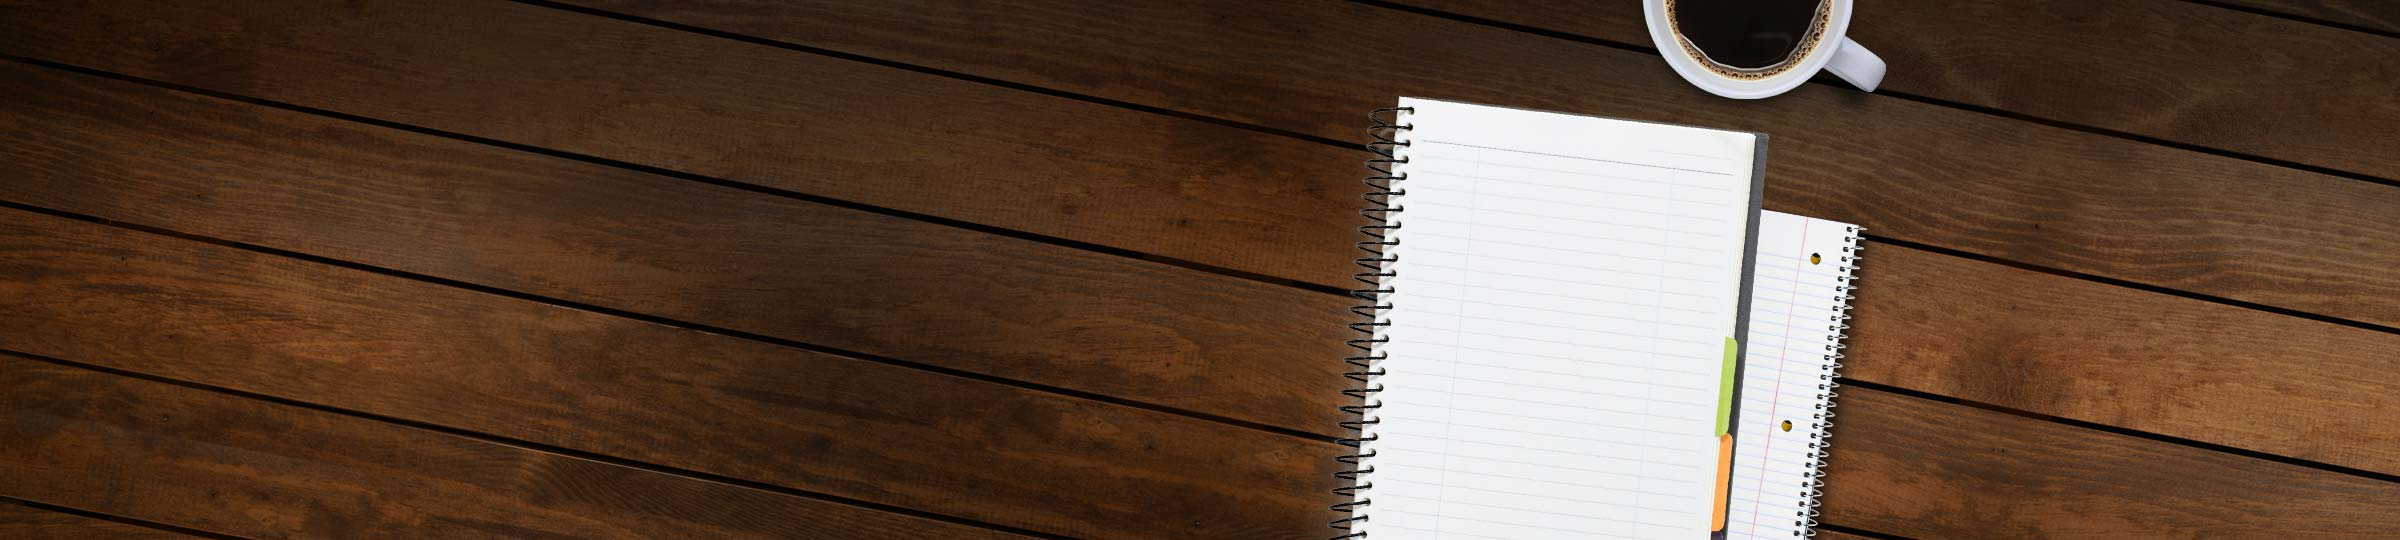
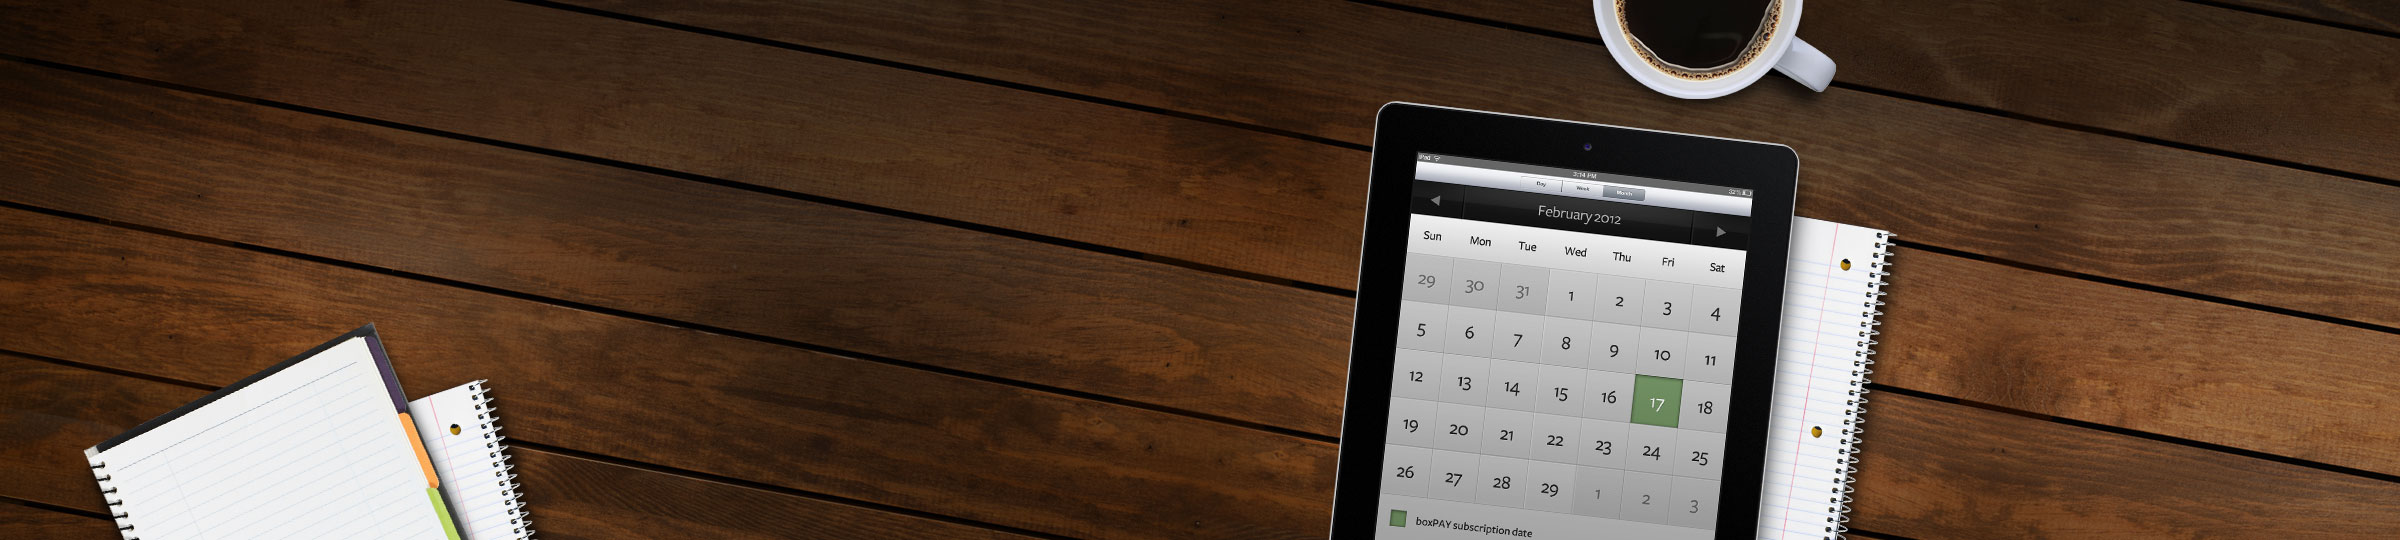
Events page and homepage graphic

Changed region(s): [[0.5312, 0.0, 0.8125, 1.0], [0.0312, 0.5926, 0.25, 1.0]]

diff --git a/static/stylesheets/app.css b/static/stylesheets/app.css
@@ -598,6 +598,11 @@
 			.homeslide3 br { display: none; }
 			
 			}
+			
+			
+		@media only screen and (min-width: 768px) { 	
+			.subtitle-login { width: 260px; }
+			.subtitle-pricepoints { width: 260px; } }
 		
 		
 
@@ -1025,7 +1030,7 @@
 	----------------------------------------- */		
 		
 		
-		.features { padding-left: 115px; }
+		div.features { padding-left: 115px; }
 		
 		.feature1 { background: url(../images/features/market.jpg) no-repeat top left; }
 		.feature2 { background: url(../images/features/integration.jpg) no-repeat top left; }
@@ -1037,7 +1042,7 @@
 		
 		@media only screen and (max-width: 480px) { 
 			
-			.features { background-size: 45px; padding-left: 60px; } }
+			div.features { background-size: 45px; padding-left: 60px; } }
 			
 			
 		@media only screen and (min-width: 480px) { 
@@ -1047,7 +1052,7 @@
 			
 		@media only screen and (min-width: 768px) { 	
 			 
-			 .features { margin-left: -10px; } }
+			 div.features { margin-left: -10px; } }
 			
 			
 		@media only screen and (-Webkit-min-device-pixel-ratio: 1.5),
@@ -1059,10 +1064,61 @@
 			.feature2 { background: url(../images/features/integration@2x.jpg) no-repeat top left; }
 			.feature3 { background: url(../images/features/payouts@2x.jpg) no-repeat top left; }
 			.feature4 { background: url(../images/features/secure@2x.jpg) no-repeat top left; }
-			.feature5 { background: url(../images/features/reporting@2x.jpg) no-repeat top left; }
-			 }	
+			.feature5 { background: url(../images/features/reporting@2x.jpg) no-repeat top left; } }	
 		
 		
+	
+	
+	/* -----------------------------------------
+		Events
+	----------------------------------------- */
+	
+		.events h4 { 
+			margin-bottom: 0.25em; color: #222; display: inline-block; 
+			font-size: 1.14285714em; font-weight: 500; }	
+		.events h2 {  color: #828282; }
+		.events span { color: #828282;  font-style: italic; line-height: 1.5; display: inline-block;
+		}
+		
+		.event-location { background: url('../images/events/event-location.jpg') no-repeat left ; padding-left: 20px;   }
+		
+		.event-date { background: url('../images/events/event-date.jpg') no-repeat left ; padding-left: 20px; margin-right: 16px;  }
+	
+		.events .large li { padding-bottom: 0.5em; }
+		.events .large li div { display: inline-block; width: 49%; }
+		
+		
+		@media only screen and (-Webkit-min-device-pixel-ratio: 1.5),
+		only screen and (-moz-min-device-pixel-ratio: 1.5),
+		only screen and (-o-min-device-pixel-ratio: 3/2),
+		only screen and (min-device-pixel-ratio: 1.5) {
+		
+			.event-date { background: url(../images/events/event-date@2x.jpg) no-repeat left ; background-size:16px;  }
+			.event-location { background: url(../images/events/event-location@2x.jpg) no-repeat left ;  background-size:16px;  }	 }
+	
+	
+		
+	
+	
+		@media only screen and (max-width: 600px) { 
+			
+			.events .large li .six { width: 100%; }
+			.events .large li div { display: block; width: 100%; margin-bottom: 1em; }
+			.events .large li div span { display: block; } 
+			 }
+			 
+		@media only screen and (min-width: 767px) {
+			.button.meeting { padding-left: 45px; padding-right: 45px; }
+			.event-date { background-position: -2px center; }	 }
+			 
+			 
+		@media only screen and (max-width: 767px) {
+			
+			.button.meeting.right { float: left; margin-bottom: 2em; }
+			
+			.event-date, .event-location { background-size:15px;  } }	 
+	
+	
 	
 	
 	/* -----------------------------------------

diff --git a/events.php b/events.php
@@ -1,0 +1,231 @@
+<?php $subtitle = "Events";
+include($_SERVER['DOCUMENT_ROOT'].'/includes/head.php');		
+include($_SERVER['DOCUMENT_ROOT'].'/includes/header.php')?>	
+	
+		
+	<div class="row primary-row">	
+  		
+  		
+  		
+  		<section role="main">
+  			
+  			
+  			<div class="row primary-container">
+  				<div class="ten columns centered">
+  					<div class="row">
+  					
+  						<div class="twelve columns">
+  						
+  							
+  							<h1>Tradeshows &amp; Events</h1>
+  							<div class="row">
+  							
+  							<p class="seven columns">Praesent eget neque eu eros interdum malesuada non vel leo. Sed fringilla porta ligula egestas tincidunt. Maecenas quis tortor arcu. Vivamus rutrum nunc non neque consectetur.</p>
+  							
+  							<div class="five columns">
+  								<a href="mailto:sales@boxpay.com" class="button right meeting">Schedule a Meeting</a>
+  							</div>
+  							
+  							</div>
+  								
+  						</div>
+  						
+  			<!--			
+  		  				<div class="five columns">
+  		  				
+  		  				
+  		  				
+  		  				</div>	-->	
+  						
+  			
+
+  					
+  					</div>
+  				</div>
+  				
+  				
+  				<div class="twelve columns divider"></div>
+  				
+  				
+  				<div class="ten columns offset-by-one end events ">
+  					<div class="row">
+  					
+  						<div class="twelve columns">
+  					
+  					<h2>Upcoming Events</h2>
+  				
+  					<ul class="no-bullet large">
+  					
+  					  						
+  						<li>
+  							
+  							<h4 class="six">Tokyo Game Show 2012</h4>
+  							<div>
+  							<span class="event-date">September 20 - 21, 2012</span>
+  							<span class="event-location">Tokyo, Japan</span>
+  							</div>
+  						</li>
+  						
+  						
+  						<li>
+  							
+  							<h4 class="six">AppsWorld 2012</h4>
+  							<div>
+  							<span class="event-date">October 2 - 3, 2012</span>
+  							<span class="event-location">London, England</span>
+  							</div>
+  						</li>
+  						
+  						
+  						<li>
+  							
+  							<h4 class="six">WAN-IFRA 2012</h4>
+  							<div>
+  							<span class="event-date">October 29 - 31, 2012</span>
+  							<span class="event-location">Frankfurt, Germany</span>
+  							</div>
+  						</li>
+  						
+  						
+  						<li>
+  							
+  							<h4 class="six">G-Star 2012</h4>
+  							<div>
+  							<span class="event-date">November 8 - 10, 2012</span>
+  							<span class="event-location">Busan, South Korea</span>
+  							</div>
+  						</li>
+
+  					</ul>
+  					
+  				
+  				
+  				
+  				
+  					<h2>Past Events</h2>
+  						  				
+  					<ul class="no-bullet large">
+  							
+  							
+  							
+  								<li>
+  									<h4 class="six">Casual Connect 2012</h4>
+  									<div>
+  									<span class="event-date">July 24 - 26, 2012</span>
+  									<span class="event-location">Seattle, USA</span>
+  									</div>
+  								</li>
+  								
+  								<li>
+  									<h4 class="six">Gamescom 2012</h4>
+  									<div>
+  									<span class="event-date">August 15 - 18, 2012</span>
+  									<span class="event-location">Cologne, Germany</span>
+  									</div>
+  								</li>
+  								
+  								
+  							
+  							
+  								<li>
+  									<h4 class="six">E3 2012</h4>
+  									<div>
+  									<span class="event-date">June 5 - 7, 2012</span>
+  									<span class="event-location">Los Angeles, USA</span>
+  									</div>
+  								</li>
+  								
+  								<li>
+  									<h4 class="six">LA Games Conference 2012</h4>
+  									<div>
+  									<span class="event-date">April 25 - 26, 2012</span>
+  									<span class="event-location">Los Angeles, USA</span>
+  									</div>
+  								</li>
+  								
+  								
+  								<li>
+  									<h4 class="six">GDC 2012</h4>
+  									<div>
+  									<span class="event-date">March 5 - 9, 2012</span>
+  									<span class="event-location">San Francisco, USA</span>
+  									</div>
+  								</li>
+  								
+  								
+  								<li>
+  									<h4 class="six">Mobile World Congress 2012</h4>
+  									<div>
+  									<span class="event-date">February 27 - March 1, 2012</span>
+  									<span class="event-location">Barcelona, Spain</span>
+  									</div>
+  								</li>
+  								
+  								
+  								<li>
+  									<h4 class="six">G-Star 2011</h4>
+  									<div>
+  									<span class="event-date">November 14 - 15, 2011</span>
+  									<span class="event-location">Busan, South Korea</span>
+  									</div>
+  								</li>
+  								
+  								
+  								<li>
+  									<h4 class="six">Social Gaming Summit 2011</h4>
+  									<div>
+  									<span class="event-date">November 14 - 15, 2011</span>
+  									<span class="event-location">London, England</span>
+  									</div>
+  								</li>
+  								
+  								
+  								<li>
+  									<h4 class="six">SocialWest: Monetizing Social Media 2011</h4>
+  									<div>
+  									<span class="event-date">October 20 - 21, 2011</span>
+  									<span class="event-location">San Francisco, USA</span>
+  									</div>
+  								</li>
+  								
+  								
+  								<li>
+  									<h4 class="six">World Telemedia Conference 2011</h4>
+  									<div>
+  									<span class="event-date">October 12 - 14, 2011</span>
+  									<span class="event-location">Amsterdam, Netherlands</span>
+  									</div>
+  								</li>
+  								
+  								<li>
+  									<h4 class="six">NY Games Conference 2011</h4>
+  									<div>
+  									<span class="event-date">September 21 - 22, 2011</span>
+  									<span class="event-location">New York, USA</span>
+  									</div>
+  								</li>
+  				
+  							</ul>
+  						
+  						</div>
+  					</div>
+  				</div>
+  				
+
+  				
+  				
+  				
+  		
+  			
+  		
+  		</section>
+  		
+  		
+  		
+  		
+  		<?php include($_SERVER['DOCUMENT_ROOT'].'/includes/sidebar.php')?>
+		
+	</div><!-- container -->
+			
+ 
+<?php include($_SERVER['DOCUMENT_ROOT'].'/includes/footer.php')?>
